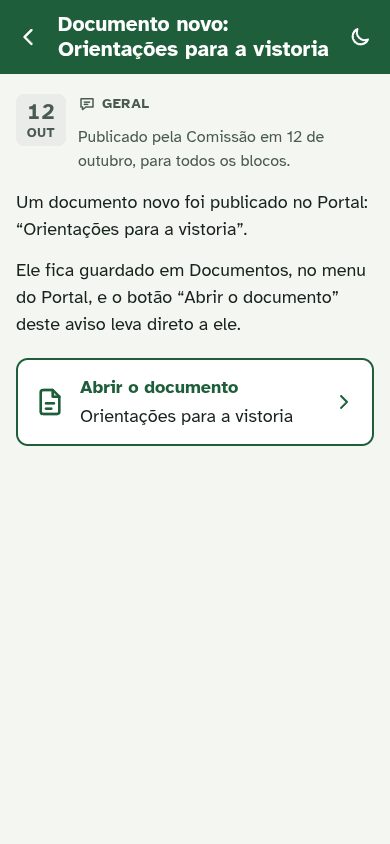
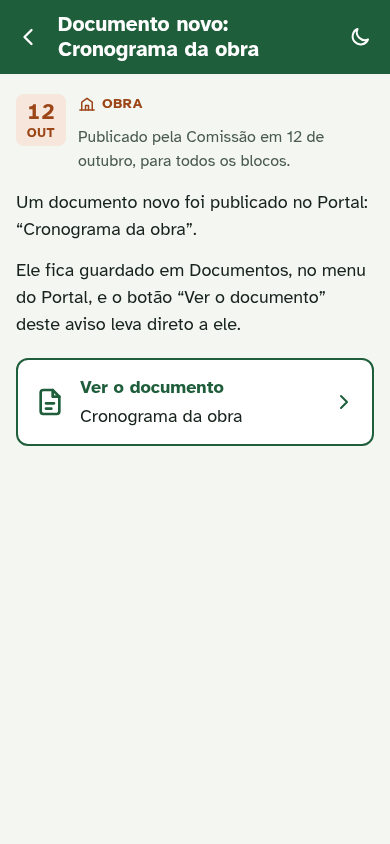
docs(documentos): revisão independente nas dúvidas, spec, plano e prints
Itens 11 a 17 das dúvidas (o que mudou e o que ficou para o
coordenador: regra de invisíveis no comum, rota .../abrir no OpenAPI e
no teste comum, validade do link de leitura, botão no aviso da versão
nova, recado e fontes da casca). Comentários corrigidos: recarregar a
aba do PDF continua no link assinado. Prints refeitos com Chrome
headless próprio.

diff --git a/web/src/documentos/api.ts b/web/src/documentos/api.ts
@@ -31,7 +31,7 @@ export const linkDaVersao = (id: number, versao: number, baixar = false) =>
   })
 
 /** Revisão UX, U7: o endereço do Portal que abre (ou baixa) o arquivo de uma versão. A API
- *  confere quem vê e redireciona para um link novo a cada visita: recarregar a aba depois de 5
- *  minutos continua funcionando. É um `href` comum, não um `fetch`. */
+ *  confere quem vê e redireciona para um link novo a cada visita (toque, nova aba, link
+ *  copiado). É um `href` comum, não um `fetch`. */
 export const enderecoParaAbrir = (id: number, versao: number, baixar = false) =>
   `/api/documentos/${id}/versoes/${versao}/abrir${baixar ? '?baixar=true' : ''}`

diff --git a/api/app/rotas/documentos.py b/api/app/rotas/documentos.py
@@ -111,10 +111,11 @@ def link(
 
 
 # Revisão UX, U7: o "Abrir" e o "Baixar" da tela apontam para cá, não para o link assinado
-# (que vence em 5 minutos: recarregar a aba do PDF mostrava o erro do bucket). Cada visita
-# confere o acesso de novo e redireciona para um link novo. Sem acesso, ou com os arquivos
+# (que vence em 5 minutos). Cada visita (toque, nova aba, link copiado) confere o acesso de
+# novo e redireciona para um link novo; recarregar a aba do PDF depois do redirecionamento
+# continua no link assinado (dúvidas do épico A, item 12). Sem acesso, ou com os arquivos
 # desligados, volta para a página do documento no Portal. Fica fora do OpenAPI: é navegação
-# do navegador, não JSON (dúvidas do épico A, item 12). `no-store` vem do middleware comum.
+# do navegador, não JSON. `no-store` vem do middleware comum.
 @rotas.get("/{documento_id}/versoes/{versao}/abrir", include_in_schema=False)
 def abrir_arquivo(
     documento_id: IdDocumento,

diff --git a/api/app/servicos/documentos.py b/api/app/servicos/documentos.py
@@ -227,7 +227,7 @@ def destino_de_abrir(
     baixar: bool,
 ) -> str:
     """Revisão UX, U7: para onde a rota `.../abrir` manda o navegador. Um link novo a cada vez
-    (recarregar a aba do PDF depois de 5 minutos não mostra o erro do bucket); sem acesso (ou
+    (toque, nova aba, link copiado: nenhum fica velho); sem acesso (ou
     inexistente), a página do documento no Portal, que diz "não achamos" ou pede para entrar;
     arquivos desligados, a mesma página com o motivo."""
     pagina = f"/documentos/{documento_id}"

diff --git a/docs/superpowers/duvidas-m3-documentos.md b/docs/superpowers/duvidas-m3-documentos.md
@@ -45,7 +45,7 @@ preferência dele); o resto é decisão técnica que pode ser revista na revisã
   validação". **Código novo no contrato** (permitido dentro do épico, contrato seção 10); o
   épico B pode querer o mesmo código para os anexos.
 
-## 6. Abrir o PDF: aba aberta antes do pedido
+## 6. Abrir o PDF: aba aberta antes do pedido · substituído pelo item 12 (revisão)
 - **Dúvida:** o link é pedido na hora do toque (vale 5 minutos), mas o navegador do celular só
   abre aba nova **no próprio toque**; depois de esperar a API, o `window.open` é bloqueado.
 - **Decisão:** abre a aba vazia no toque e põe o endereço nela quando o link chega; se o
@@ -87,3 +87,98 @@ preferência dele); o resto é decisão técnica que pode ser revista na revisã
   celular de quem ativou as notificações." O aviso automático entra no mesmo envio de push e
   e-mail de qualquer aviso (M2); quem marca a caixa precisa saber que vai tocar no celular de
   muita gente.
+
+---
+
+# Revisão independente (código e UX) · o que mudou e o que ficou para o coordenador
+
+## 11. Título sem nenhum invisível (C3) · a regra deveria ir para o comum
+- **Decisão:** `validar_titulo` (e a linha do aviso) recusam, além da regra comum, as categorias
+  Unicode Zl, Zp e Cf (U+2028, U+2029, U+061C, U+180E, U+00AD…) e os preenchimentos do Hangul
+  (U+115F, U+1160, U+3164, U+FFA0). O ZWJ (U+200D) continua aceito, como na regra comum (emojis
+  compostos).
+- **Pendência do coordenador:** a mesma regra em `app/esquemas/comum.py` (`sem_invisiveis`),
+  para o título do aviso, o nome do arquivo e o resto. O épico A não edita o comum.
+
+## 12. "Abrir" e "Baixar" pelo Portal: rota nova `GET .../versoes/{versao}/abrir` (U7)
+- **Mudança de contrato:** `GET /api/documentos/{documento_id}/versoes/{versao}/abrir?baixar=`
+  responde **302** para um link assinado novo (confere quem vê a cada visita; sem sessão, só o
+  público). Sem acesso ou inexistente: 302 para `/documentos/{id}` (a página diz "não achamos"
+  ou pede para entrar). Arquivos desligados: 302 para `/documentos/{id}?erro=arquivos_desligados`.
+  `no-store` vem do middleware comum. A tela usa `href` comum (abrir: `target="_blank"`, com
+  "(abre em outra aba)" para o leitor de tela; baixar: na própria aba). O `GET .../link`
+  (JSON) continua, como no contrato.
+- **O que isto resolve e o que não resolve (conferido no navegador):** todo toque no Portal
+  (inclusive numa página deixada aberta por horas), "abrir em nova aba" pelo toque longo e o
+  link copiado ou compartilhado passam pela conferência e ganham link novo. Mas **recarregar a
+  aba do PDF não**: depois do 302, o endereço da aba é o link assinado, e o navegador recarrega
+  esse endereço; passados 5 minutos, aparece o erro do bucket. Resolver isso de vez pede
+  validade maior no link de leitura (`VALIDADE_LEITURA`, em `app/servicos/armazenamento.py`,
+  comum) ou servir o arquivo pela API (a Vercel limita a resposta a 4,5 MB). **Pendência do
+  coordenador** (a decisão vale também para os anexos do épico B).
+- **Fora do OpenAPI** (`include_in_schema=False`): é navegação do navegador, não JSON, e o teste
+  comum `test_m3_rotas.py::test_rotas_do_m3_declaradas` compara a lista exata de rotas, que o
+  épico não pode editar. **Pendência do coordenador:** decidir no merge se a rota entra no
+  OpenAPI e no teste comum (o épico B recebeu a mesma sugestão para os anexos, com
+  `GET /api/avisos/{id}/anexos/{arquivo_id}/abrir`: o formato é o mesmo).
+- Some com isso a aba aberta antes do pedido (item 6): o `href` abre a aba no próprio toque.
+
+## 13. Aviso da versão nova sem o botão "Ver o documento" (U3) · pendência do coordenador
+- **Decisão:** "Enviar nova versão" ganhou "Avisar os apartamentos" (**desmarcado**) e "O que
+  mudou (se quiser)". O aviso sai com título "Documento atualizado: <título>" e o texto "Saiu
+  a versão N de um documento do Portal: “<título>”." + a linha + "Ela fica guardada em
+  Documentos, no menu do Portal: <endereço do documento>" (o endereço só quando
+  `PORTAL_URL_BASE` existe; vira link no mural e no e-mail).
+- **Por que sem o botão:** `documento.aviso_id` guarda um aviso só (o da criação), único, e o
+  `app` não tem UPDATE nele; o botão do aviso vem desse campo. Ligar mais avisos ao documento
+  pede migração (uma coluna `aviso_id` em `documento_versao`, ou uma tabela), o que o épico não
+  faz. O "o que mudou" também não aparece no documento, só no aviso, pelo mesmo motivo.
+
+## 14. A resposta se perdeu: 409 `arquivo_em_uso` diz onde está (U1)
+- **Mudança de contrato:** quando o arquivo (que a própria unidade enviou) já está num
+  documento que ela vê, o 409 `arquivo_em_uso` traz `documento_id` e `versao`. A tela leva a
+  pessoa até lá com "Já estava publicado: o primeiro envio tinha dado certo, e nada foi
+  publicado em dobro." (ou "Já estava enviada", na versão nova). A conferência é feita antes
+  de gravar qualquer coisa: o reenvio não cria aviso nem notificação de novo.
+- **Por que assim, e não chave de idempotência:** o próprio id do arquivo já é a chave (ele é
+  único por envio e só pode entrar em um documento), e não precisa de coluna nova.
+
+## 15. Categoria do aviso automático (U13)
+- **Decisão:** documento de Obra → aviso de Obra; Ata → Reunião; os outros → Geral. A gestão
+  pode escrever uma linha para o aviso, e a tela mostra a prévia (categoria, título e texto,
+  os mesmos que a API grava; os dois lados têm teste com o mesmo texto).
+
+## 16. Recado que some e fonte em px (U9, U18) · pendências do coordenador
+- **U9:** o recado da casca (`useRecado`, comum) some em 2,6 s; não mexi. No documento, depois
+  de publicar ou enviar versão, fica uma confirmação fixa ("Pronto: o documento foi publicado.
+  Ele já aparece em Documentos. O aviso saiu no mural."), até sair da tela.
+- **U18:** as fontes do Portal inteiro estão em px (`estilo.css`, comum); a CSS do épico seguiu
+  o padrão. Trocar por `rem` é decisão do coordenador para o Portal todo.
+
+## 17. Outras decisões da revisão
+- **C1/C2:** número fora do tipo do banco (versão acima de 32767, id acima de bigint, zero)
+  responde **422** `dados_invalidos`, não 404 nem 500, nas rotas e no `arquivo_id` do épico. O
+  mesmo ajuste nas rotas de avisos e arquivos é do coordenador.
+- **C4:** a resposta de "Enviar nova versão" é o documento como ficou **na versão que o pedido
+  criou** (versões até ela), mesmo que outra tenha chegado logo depois.
+- **Histórico:** `documento_versao_enviada` passou a ter `{"versao": n, "avisou": bool}` (a
+  frase de `frases.ts` só usa a versão; nada muda nela).
+- **U2:** o link de um documento **público** aberto sem entrar mostra a página dele (com Abrir,
+  Baixar e "Entrar"); a tela acha o documento na lista dos públicos (a API não tem o documento
+  aberto sem sessão). Não é público: vai para "Entrar" e volta para o documento depois.
+- **U4:** cada versão antiga diz "Substituída pela versão N em <data>"; o botão é discreto
+  (link). Para o morador, as versões ficam recolhidas em "Ver versões anteriores (N)"; a gestão
+  as vê abertas.
+- **U5:** sair de "Novo documento" ou "Enviar nova versão" com algo escrito, arquivo escolhido
+  ou no meio do envio pergunta antes (`window.confirm`, a pergunta nativa, que o leitor de tela
+  e o celular conhecem) e, ao fechar a aba, o `beforeunload`. Solução do próprio épico
+  (`documentos/confirmarSaida.ts`); o épico B fez a dele no aviso: vale unificar depois.
+- **U6:** a ajuda do arquivo diz "Se o documento tem várias páginas, junte num PDF antes de
+  enviar.". Várias fotos num documento só não foi feito (fica para quando a Comissão pedir).
+- **U10:** o arquivo é conferido na hora de escolher, com o que fazer: Word ("salve como PDF"),
+  outro tipo, vazio, PDF acima de 20 MB (com o tamanho e como reduzir). Foto grande passa,
+  porque é reduzida antes de enviar. Trocar o arquivo limpa o erro de antes.
+- **U11, U12, U14 a U17:** "Documentos públicos" sem o convite para entrar quando já se entrou
+  (e com "Entrar" para o visitante); "Quem vê" só na parte da gestão; o assunto começa em
+  "Escolha…" e é obrigatório; selo "qualquer pessoa vê" na lista da gestão; arquivados com a
+  data em que foram arquivados; título do topo em até 2 linhas, com o título inteiro na folha.

diff --git a/docs/superpowers/specs/m3-documentos.md b/docs/superpowers/specs/m3-documentos.md
@@ -104,3 +104,13 @@ link direto para a conta comum, nem para quem não entrou (critério do roadmap)
 
 Corrigir título ou nível de documento publicado (dúvida 5 do contrato); prévia do PDF embutida
 na página (dúvida 8 do contrato); mostrar o documento como anexo no mural.
+
+## 5. Depois da revisão independente (código e UX)
+
+O que mudou está em `duvidas-m3-documentos.md`, itens 11 a 17, e vale sobre o texto acima:
+números fora do tipo do banco dão 422; título sem invisíveis; a resposta da nova versão é a
+versão criada; o 409 `arquivo_em_uso` traz `documento_id` e `versao` (a tela leva ao que já foi
+publicado); a nova versão pode avisar, com "o que mudou"; o documento novo tem uma linha
+opcional para o aviso, com prévia, e a categoria do aviso combina com o assunto; "Abrir" e
+"Baixar" passam por `GET .../versoes/{versao}/abrir` (302 para um link novo); o documento
+público abre por link sem entrar; o cartão do aviso diz "Ver o documento".

diff --git a/docs/superpowers/plans/m3-documentos.md b/docs/superpowers/plans/m3-documentos.md
@@ -47,3 +47,7 @@
   uvicorn na 8181, Vite na 5191; Playwright a 390 px e 1280 px como morador e como gestão;
   prints em `docs/superpowers/prints/m3-documentos/`.
 - [x] **7. Fechamento:** suíte inteira, dúvidas, relatório.
+- [x] **8. Revisão independente (código e UX):** C1 a C4 e U1 a U17 em
+  `test_documentos_revisao.py`, `documentos.test.tsx` e `formatos.test.ts`; o que ficou para o
+  coordenador está nas dúvidas, itens 11 a 17; conferência visual refeita com Chrome headless
+  próprio, por script (prints 1 a 9).
